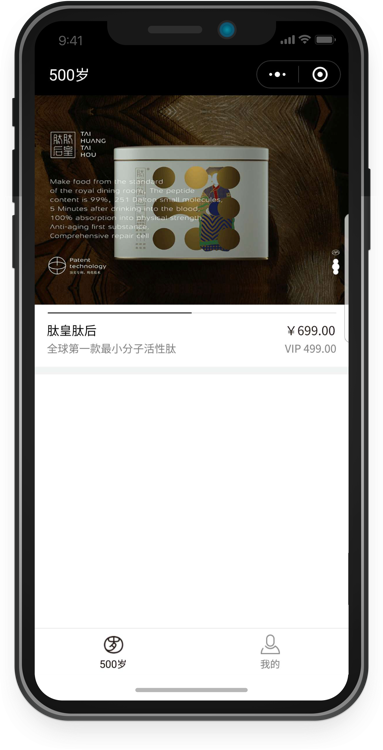
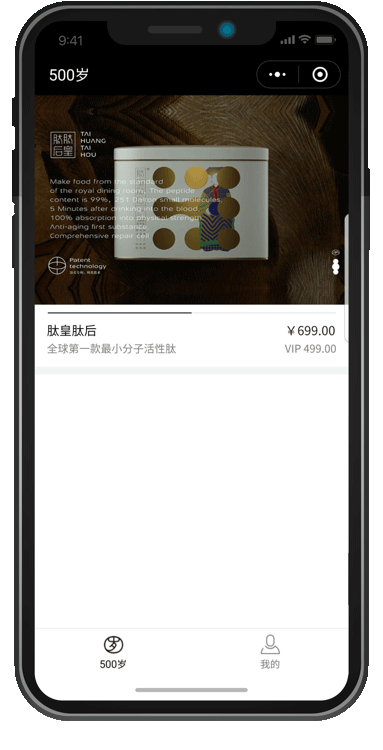
压缩图片

diff --git a/pages/index.html b/pages/index.html
@@ -27,8 +27,8 @@
       </div>
     </div>
   </div>
-  <img class="main-title" src="../static/img/index/top-title.png" width="90%">
-  <img src="../static/img/index/main-product.png" alt="product" class="main-title-product" width="90%">
+  <img class="main-title" src="../static/img/index/top-title.png?ver=0402" width="90%">
+  <img src="../static/img/index/main-product.jpg" alt="product" class="main-title-product" width="90%">
 </div>
 <div class="all-body-container container-fluid product-model-one clearfix">
   <div class="row">
@@ -49,12 +49,12 @@
       <p class="under-text">修复细胞，改善细胞，激活细胞</p>
       <a href="javascript:;" class="get-more-info">+&nbsp;&nbsp;&nbsp;进一步了解</a>
     </div>
-    <img src="../static/img/index/pro.png" alt="pro" class="col-xs-6 right-pro">
+    <img src="../static/img/index/pro.jpg" alt="pro" class="col-xs-6 right-pro">
   </div>
 </div>
 <div class="all-body-container container-fluid product-model-three clearfix">
   <div class="product3-box row clearfix">
-    <img src="../static/img/index/pro3.png" alt="pro" class="col-xs-6 left-pro">
+    <img src="../static/img/index/pro3-1.png" alt="pro" class="col-xs-6 left-pro">
     <div class="product-left-text pull-right col-xs-6 text-right no-margin">
       <h2 class="tai-title">御膳早餐粉</h2>
       <p class="under-text">多少人关心你成不成功，我们关心你吃了没吃</p>
@@ -65,13 +65,13 @@
 <div class="all-body-container container-fluid product-model-four text-center clearfix">
   <div class="row">
     <div class="product4-box">即将上市</div>
-    <img src="../static/img/index/pro4.png" alt="pro" width="90%" class="product4">
+    <img src="../static/img/index/pro4.jpg" alt="pro" width="90%" class="product4">
   </div>
 </div>
 <div class="all-body-container container-fluid product-model-five clearfix">
   <div class="product5-box row">
     <div class="product5 col-xs-4 text-right">
-      <img src="../static/img/index/pro5.png" alt="pro" width="80%">
+      <img src="../static/img/index/pro5.png?ver=0402" alt="pro" width="80%">
     </div>
     <div class="product-explain-css1 col-xs-8">
       <p class="title">500岁小程序</p>
@@ -85,7 +85,7 @@
       <p class="title">线下门店，即将开启</p>
       <p class="text pro-six">苹果级的体验</p>
     </div>
-    <img src="../static/img/index/pro6.png" alt="pro" width="90%" class="product4">
+    <img src="../static/img/index/pro6.jpg" alt="pro" width="90%" class="product4">
   </div>
 </div>
 <div class="all-body-container container-fluid product-model-seven text-center clearfix">
@@ -95,7 +95,7 @@
       <p class="text">大健康+社交电视+小程序+新零售=无线可能</p>
       <a href="javascript:;" class="get-more-info seven">+&nbsp;&nbsp;&nbsp;进一步了解</a>
     </div>
-    <img src="../static/img/index/pro7.png" alt="pro" width="90%" class="product4">
+    <img src="../static/img/index/pro7.jpg" alt="pro" width="90%" class="product4">
   </div>
 </div>
 <div class="all-body-container footer text-center">广东五百岁健康科技有限公司&nbsp;&nbsp;粤ICP备&nbsp;&nbsp;1709876463</div>

diff --git a/pages/about-us.html b/pages/about-us.html
@@ -22,9 +22,9 @@
         <div class="pull-right text-center clearfix">
           <a href="./index.html" class="pull-left header-chose-btn">首页</a>
           <a href="./product1.html" class="pull-left header-chose-btn">肽皇肽后</a>
-          <a href="./product2.html" class="pull-left header-chose-btn show">御膳早餐</a>
+          <a href="./product2.html" class="pull-left header-chose-btn">御膳早餐</a>
           <a href="./product3.html" class="pull-left header-chose-btn">轻创业</a>
-          <a href="./about-us.html" class="pull-left header-chose-btn">联系我们</a>
+          <a href="./about-us.html" class="pull-left header-chose-btn show">联系我们</a>
         </div>
       </div>
     </div>

diff --git a/static/css/main.css b/static/css/main.css
@@ -174,7 +174,7 @@ video.video-src{
 .company-logo {
   width: 219px;
   height: 50px;
-  background: url("../img/logo.png") no-repeat;
+  background: url("../img/logo.jpg") no-repeat;
   background-size: contain;
 }
 
